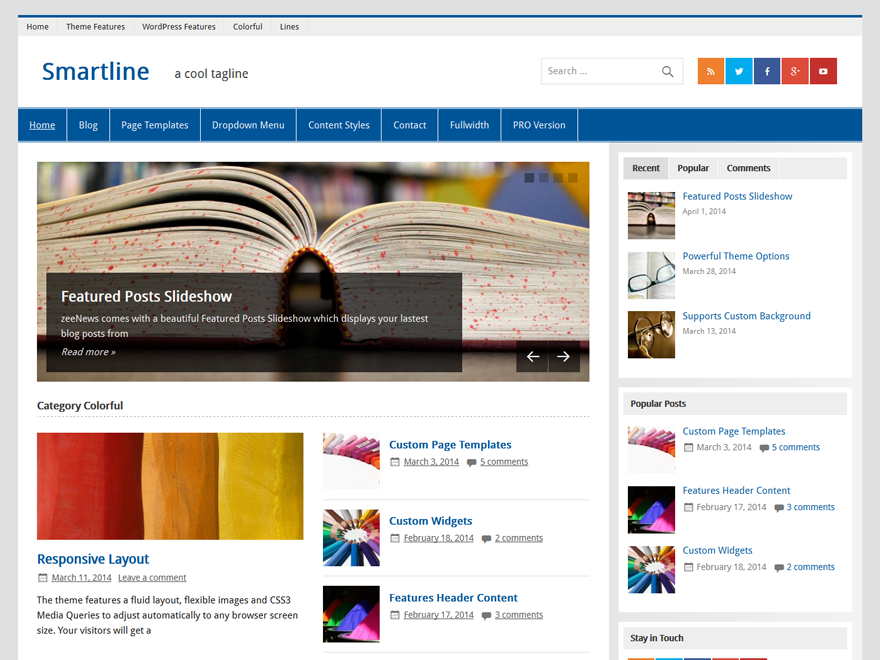
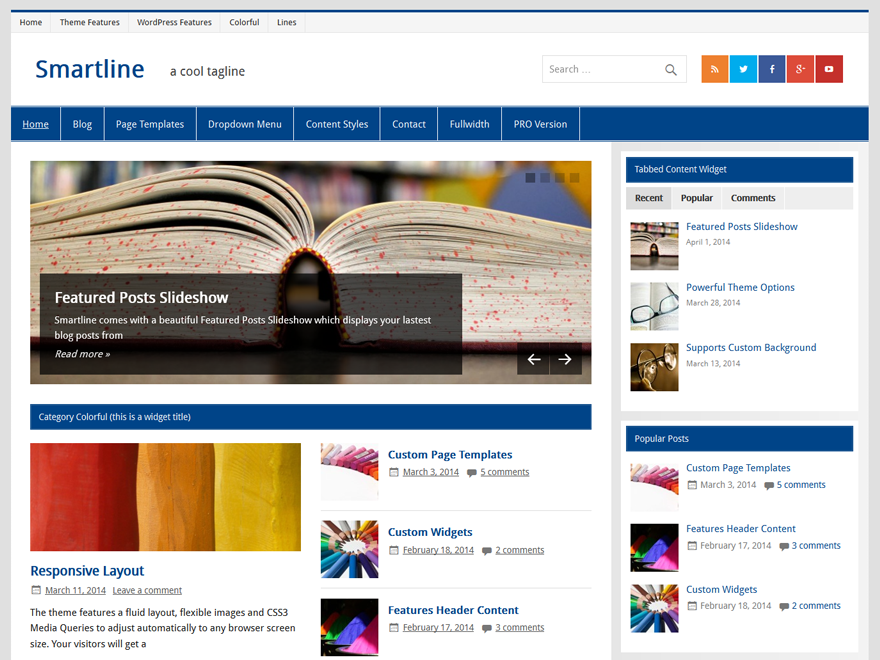
design improvement update

Changed region(s): [[0.0, 0.0, 1.0, 1.0], [0.6136, 0.0909, 0.675, 0.1212], [0.4602, 0.3333, 0.4909, 0.3636]]

diff --git a/style.css b/style.css
@@ -2,7 +2,7 @@
 Theme Name: Smartline Lite
 Theme URI: http://themezee.com/themes/smartline/
 Description: Smartline Lite is a perfect theme for news and magazine websites as well as simple blogs. The responsive design with bold colors and smart lines looks great on any device. The main highlight of Smartline is the flexible and widgetized front page template which allows you to create a magazine-styled homepage with ease.
-Version: 1.0.1
+Version: 1.0.2
 Author: ThemeZee
 Author URI: http://themezee.com
 Tags: two-columns, light, blue, custom-background, custom-colors, custom-header, custom-menu, editor-style, featured-image-header, featured-images, flexible-header, full-width-template, sticky-post, threaded-comments, translation-ready, theme-options, fluid-layout, responsive-layout, one-column, left-sidebar, right-sidebar, three-columns, black, silver, white, gray
@@ -57,7 +57,7 @@ html {
 	font-size: 100.01%;
 }
 body {
-	font-family: 'Droid Sans', Tahoma, Verdana, Arial;
+	font-family: 'Raleway', Tahoma, Verdana, Arial;
 	font-size: 0.95em;
 	border: 0;
 	color: #111;
@@ -66,7 +66,7 @@ body {
 
 /* Links */
 a, a:link, a:visited{
-	color: #005599;
+	color: #004488;
 	text-decoration: none;
 }
 a:hover, a:active {
@@ -80,7 +80,7 @@ input, textarea {
 	border: 1px solid #ddd;
 	font-size: 1.0em;
 	color: #333;
-	font-family: 'Droid Sans', Tahoma, Verdana, Arial;
+	font-family: 'Raleway', Tahoma, Verdana, Arial;
 }
 input[type="submit"] {
 	border: none;
@@ -121,7 +121,7 @@ input, textarea, select {
 	background: #fff;
 }
 #header-wrap {
-	border-top: 4px solid #005599;
+	border-top: 4px solid #004488;
 }
 #header {
 	padding: 2.5em;
@@ -177,8 +177,8 @@ input, textarea, select {
 	float: left;
 	font-size: 2.5em;
 	font-weight: bold;
-	color: #005599;
-	font-family: 'Droid Sans', Tahoma, Verdana, Arial;
+	color: #004488;
+	font-family: 'Bitter', Tahoma, Verdana, Arial;
 }
 #logo a:hover {
 	text-decoration: none;
@@ -228,7 +228,8 @@ input, textarea, select {
 	display: none;
 }
 #topnav {
-	background: #eee;
+	background: #f5f5f5;
+	border-bottom: 1px solid #e5e5e5;
 }
 #topnav-menu {
 	float: left;
@@ -237,14 +238,14 @@ input, textarea, select {
 	position: relative;
 }
 #topnav-menu li{
-	float:left;
-	position:relative;
+	float: left;
+	position: relative;
 	margin-left: 0.5em;
 	border-right: 1px solid #e5e5e5;
 }
 #topnav-menu a {
 	display: block;
-	padding: 0.6em 1em 0.6em 0.5em;
+	padding: 0.7em 1em 0.7em 0.5em;
 	text-decoration: none;
 	font-size: 0.85em;
 }
@@ -266,25 +267,25 @@ input, textarea, select {
 	display: none;
 }
 #navi-wrap {
-	border-top: 1px solid #005599;
-	border-bottom: 1px solid #005599;
+	border-top: 1px solid #004488;
+	border-bottom: 1px solid #004488;
 	background: #fff;
 	padding-top: 1px;
 	padding-bottom: 1px;
 }
 #mainnav {
-	background: #005599;
+	background: #004488;
 }
 #mainnav-menu {
 	float: left;
 	list-style-type: none;
 	list-style-position: outside;
 	position: relative;
-	background: #005599;
+	background: #004488;
 }
 #mainnav-menu li{
-	float:left;
-	position:relative;
+	float: left;
+	position: relative;
 	border-right: 1px solid #fff;
 }
 #mainnav-menu a {
@@ -292,7 +293,7 @@ input, textarea, select {
 	padding: 1.2em;
 	text-decoration: none;
 	font-size: 1.0em;
-	font-family: 'Droid Sans', Tahoma, Verdana, Arial;
+	font-family: 'Bitter', Tahoma, Verdana, Arial;
 	-webkit-transition: all 0.1s ease-out;
 	-moz-transition: all 0.1s ease-out;
 	-ms-transition: all 0.1s ease-out;
@@ -379,12 +380,13 @@ input, textarea, select {
 }
 .widgettitle {
 	font-size: 0.9em;
-	font-weight: bold;
-	font-family: 'Droid Sans', Tahoma, Verdana, Arial;
-	padding: 0.8em;
+	font-family: 'Raleway', Tahoma, Verdana, Arial;
+	padding: 0.9em;
 	margin: -0.5em -0.5em 1em -0.5em;
-	background: #eee;
-	color: #222;
+	background: #004488;
+	color: #fff;
+	box-shadow: inset 0 0 1px #bbb;
+	border: 1px solid #004488;
 }
 .widget .textwidget {
 	line-height: 1.5em;
@@ -405,7 +407,7 @@ input, textarea, select {
 }
 .widget a:link, .widget a:visited  {
 	text-decoration: none;
-	color: #005599;
+	color: #004488;
 }
 .widget a:hover, .widget a:active {
 	text-decoration: underline;
@@ -456,8 +458,8 @@ input, textarea, select {
 }
 .page-title, .post-title {
 	font-weight: bold;
-	font-family: 'Droid Sans', Tahoma, Verdana, Arial;
-	color: #005599;
+	font-family: 'Bitter', Tahoma, Verdana, Arial;
+	color: #004488;
 	line-height: 1.4em;
 	-ms-word-wrap: break-word;
 	word-wrap: break-word;
@@ -471,7 +473,7 @@ input, textarea, select {
 	padding: 0.3em 0;
 }
 .post-title a:link, .post-title a:visited {
-	color: #005599;
+	color: #004488;
 	text-decoration: none;
 }
 .post-title a:hover, .post-title a:active{
@@ -564,7 +566,7 @@ input, textarea, select {
 	border-bottom: 1px dashed #aaa;
 }
 .archive-title span{
-	color: #005599;
+	color: #004488;
 }
 
 /* Content Pagination */
@@ -578,10 +580,10 @@ input, textarea, select {
 	display: inline-block;
     text-align: center;
 	text-decoration: none;
-	color: #005599;
+	color: #004488;
 }
 .post-pagination a:link, .post-pagination a:visited {
-	color: #005599;
+	color: #004488;
 }
 .post-pagination a:hover {
 	text-decoration: underline;
@@ -589,7 +591,7 @@ input, textarea, select {
 .post-pagination .current {
 	padding: 0.2em 0.6em;
 	margin-right: 0.2em;
-	background: #005599;
+	background: #004488;
 	color: #fff;
 }
 
@@ -845,7 +847,7 @@ embed, iframe, object, video {
 #image-nav .nav-previous a, #image-nav .nav-next a {
 	font-size: 0.9em;
 	text-decoration: none;
-	color: #005599;
+	color: #004488;
 }
 #image-nav .nav-previous a:hover, #image-nav .nav-next a:hover {
 	text-decoration: underline;
@@ -1021,7 +1023,7 @@ embed, iframe, object, video {
 	margin: 1em 0;
 }
 #comments .comments-title, #respond #reply-title {
-	font-family: 'Droid Sans', Tahoma, Verdana, Arial;
+	font-family: 'Bitter', Tahoma, Verdana, Arial;
 	font-size: 1.4em;
 	color: #333;
 	line-height: 1.4em;
@@ -1165,13 +1167,14 @@ embed, iframe, object, video {
 	padding: 0;
 }
 #frontpage-magazine-widgets .widget .widgettitle {
-	font-size: 1.1em;
-	font-weight: bold;
-	padding: 0 0 0.5em 0;
+	font-family: 'Raleway', Tahoma, Verdana, Arial;
+	font-size: 0.9em;
+	padding: 0.9em;
 	margin: 0 0 1.5em 0;
-	background: none;
-	color: #333;
-	border-bottom: 1px dashed #aaa;
+	background: #004488;
+	color: #fff;
+	box-shadow: inset 0 0 1px #bbb;
+	border: 1px solid #004488;
 }
 
 /* Category Posts Widgets */
@@ -1281,7 +1284,7 @@ embed, iframe, object, video {
 	margin-top: 1px;
 	padding: 1.2em;
 	color: #fff;
-	background: #005599;
+	background: #004488;
 }
 #footer #credit-link {
 	float: right;
@@ -1445,9 +1448,9 @@ embed, iframe, object, video {
 		text-transform: uppercase;
 		text-decoration: none;
 		font-size: 1.0em;
-		font-family: 'Droid Sans', Tahoma, Verdana, Arial;
+		font-family: 'Bitter', Tahoma, Verdana, Arial;
 		color: #fff;
-		background: #005599;
+		background: #004488;
 		-webkit-transition: all 0.1s ease-out;
 		-moz-transition: all 0.1s ease-out;
 		-ms-transition: all 0.1s ease-out;

diff --git a/css/flexslider.css b/css/flexslider.css
@@ -74,7 +74,7 @@ html[xmlns] .zeeslides {display: block;}
 	width: 70%;
 }
 #frontpage-slider .zeeslide .slide-entry .slide-title {
-	font-family: 'Droid Sans', Tahoma, Verdana, Arial;
+	font-family: 'Bitter', Tahoma, Verdana, Arial;
 	font-size: 1.5em;
 	font-weight: bold;
 	color: #fff;

diff --git a/inc/customizer/customizer-functions.php b/inc/customizer/customizer-functions.php
@@ -55,60 +55,6 @@ if ( class_exists( 'WP_Customize_Control' ) ) :
         }
     }
 	
-	class Smartline_Customize_Font_Control extends WP_Customize_Control {
-	
-		private $fonts = false;
-		
-		public function __construct($manager, $id, $args = array(), $options = array()) {
-		
-			$this->fonts = array(
-				'Arial' => 'Arial',
-				'Alef' => 'Alef',
-				'Carme' => 'Carme',
-				'Droid Sans' => 'Droid Sans',
-				'Francois One' => 'Francois One',
-				'Josefin Slab' => 'Josefin Slab',
-				'Lobster' => 'Lobster',
-				'Luckiest Guy' => 'Luckiest Guy',
-				'Jockey One' => 'Jockey One',
-				'Maven Pro' => 'Maven Pro',
-				'Modern Antiqua' => 'Modern Antiqua',
-				'Nobile' => 'Nobile',
-				'Oswald' => 'Oswald',
-				'Permanent Marker' => 'Permanent Marker',
-				'Roboto' => 'Roboto',
-				'Share' => 'Share',
-				'Tahoma' => 'Tahoma',
-				'Ubuntu' => 'Ubuntu',
-				'Verdana' => 'Verdana');
-			parent::__construct( $manager, $id, $args );
-			
-		}
-		
-		public function render_content() {
-		
-			if( !empty($this->fonts) ) :
-            ?>
-                <label>
-                    <span class="customize-control-title"><?php echo esc_html( $this->label ); ?></span>
-					<div class="customize-font-select-control">
-						<select <?php $this->link(); ?>>
-							<?php
-								foreach ( $this->fonts as $k => $v )
-								{
-									printf('<option value="%s" %s>%s</option>', $k, selected($this->value(), $k, false), $v);
-								}
-							?>
-						</select>
-					</div>
-				</label>
-                
-            <?php
-			endif;
-		}
-		
-	}
-	
 endif;
 
 

diff --git a/functions.php b/functions.php
@@ -39,8 +39,9 @@ function smartline_enqueue_scripts() {
 	// Register and enqueue navigation.js
 	wp_enqueue_script('smartline-lite-jquery-navigation', get_template_directory_uri() .'/js/navigation.js', array('jquery'));
 	
-	// Register and Enqueue Font
-	wp_enqueue_style('smartline-lite-default-font', '//fonts.googleapis.com/css?family=Droid+Sans');
+	// Register and Enqueue Fonts
+	wp_enqueue_style('smartline-lite-default-font', '//fonts.googleapis.com/css?family=Raleway');
+	wp_enqueue_style('smartline-lite-default-title-font', '//fonts.googleapis.com/css?family=Bitter');
 
 }
 endif;
